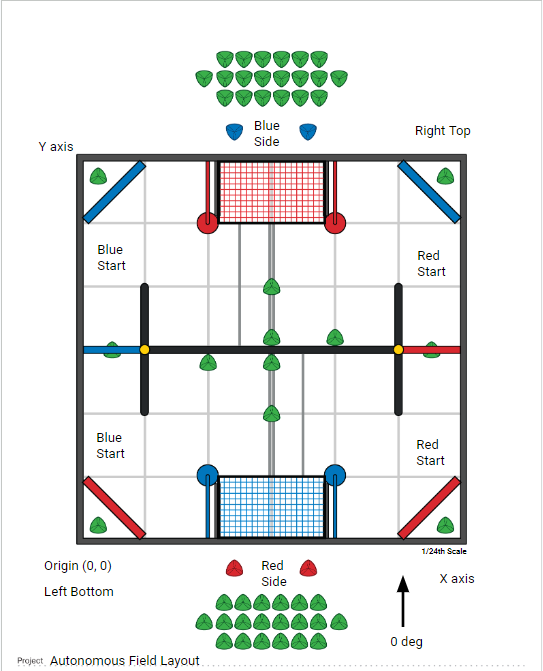
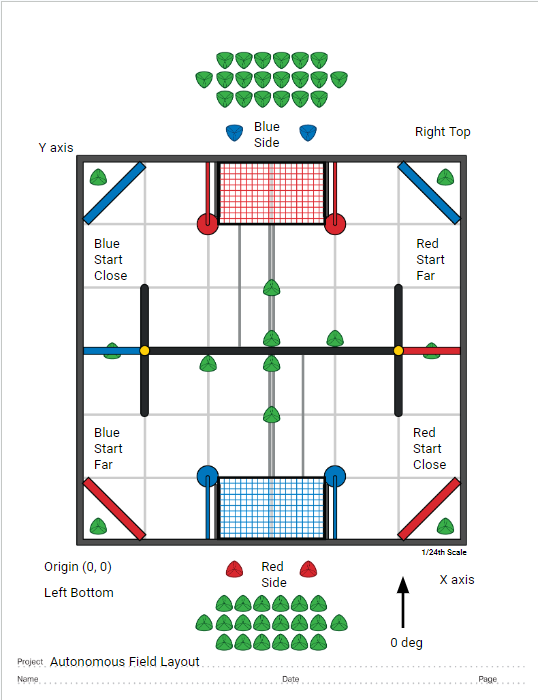
updated field and auto close

Changed region(s): [[0.0297, 0.0596, 0.8922, 1.0], [0.9814, 0.0, 1.0, 0.0298], [0.8922, 0.9538, 0.9219, 0.9836]]

diff --git a/src/main.cpp b/src/main.cpp
@@ -81,29 +81,24 @@ pros::Motor intake(INTAKE_PORT, pros::E_MOTOR_GEARSET_18, false,
                    pros ::E_MOTOR_ENCODER_DEGREES);
 pros::Motor cata(CATA_PORT, pros::E_MOTOR_GEARSET_36, true);
 
-void autoSkillsDriverAKAOppositeOfAutoClose()
+// poses only defined for red side, as blue is the same but flipped!
+
+// starts at opposite of close side facing towards goal, pushes triball into the goal, and sets up for match load
+void autoCloseOpposite()
 {
-  chassis.setPose(driverAutoStart.x, driverAutoStart.y, driverAutoStartHeading);
-  chassis.moveToPose(driverAutoMid.x, driverAutoMid.y, driverAutoMidHeading,
-                     2000, {.minSpeed = 80}, false);
-  // chassis.moveToPose(driverAutoMid2.x, driverAutoMid2.y, driverAutoMid2Heading, 2000, {.forwards = false, .chasePower = 1, .minSpeed = 80}, false);
-  chassis.moveToPose(driverAutoEnd.x, driverAutoEnd.y, driverAutoEndHeading,
-                     2000, {.maxSpeed = 80}, false);
+  chassis.setPose(closeOppStart.x, closeOppStart.y, closeOppStartHeading);
+  chassis.moveToPose(blueGoalLeftSide.x, blueGoalLeftSide.y, 90, 2000, {.minSpeed = 80}, false); // push into the goal
+  chassis.moveToPose(closeOppEnd.x, closeOppEnd.y, closeOppEndHeading, 2000, {.forwards = false, .maxSpeed = 80}, false);
   wings.set_value(HIGH);
 }
 
+// starts at close side facing towards goal, pushes triball into the goal, and sets up for match load
 void autoClose()
 {
-  chassis.setPose(fieldX - driverAutoStart.x, driverAutoStart.y, -driverAutoStartHeading);
+  chassis.setPose(fieldX - closeOppStart.x, closeOppStart.y, -closeOppStartHeading);
   chassis.setPose(blueGoalRightSide.x, blueGoalRightSide.y, -90, 4000);
-  // chassis.moveToPose(fieldX - driverAutoMid.x, driverAutoMid.y, -driverAutoMidHeading,
-  //                    2000, {.minSpeed = 80}, false);
-  // chassis.moveToPose(fieldX - driverAutoMid2.x, driverAutoMid2.y, -driverAutoMid2Heading,
-  //                    2000, {.forwards = false, .chasePower = 1, .minSpeed = 80},
-  //                    false);
-  // chassis.moveToPose(fieldX - driverAutoEnd.x, driverAutoEnd.y, -driverAutoEndHeading,
-  //                    2000, {.maxSpeed = 80}, false);
-  // wings.set_value(HIGH);
+  chassis.moveToPose(fieldX - closeOppEnd.x, closeOppEnd.y, -closeOppEndHeading, 2000, {.forwards = false, .maxSpeed = 80}, false);
+  wings.set_value(HIGH);
 }
 
 // start in farthest full starting tile, facing the center of the field
@@ -132,7 +127,7 @@ void autoFar()
 // start in lower left corner between goal and corner facing the goal
 void autoSkills()
 {
-  autoSkillsDriverAKAOppositeOfAutoClose();
+  autoCloseOpposite();
   // cata = CATAMAXVOLTAGE;
   // pros::delay(25000); // wait 25 sec
   // cata = 0;
@@ -259,7 +254,7 @@ void opcontrol()
   if (ez::as::auton_selector.Autons[ez::as::auton_selector.current_auton_page]
           .Name == autoSkillsAuton.Name)
   {
-    autoSkillsDriverAKAOppositeOfAutoClose();
+    autoCloseOpposite();
     cataHeadStart = 200;
   }
   bool flipDrive = false;

diff --git a/src/field.hpp b/src/field.hpp
@@ -75,14 +75,10 @@ Pose2d redSkillsStart = Pose2d((fieldX - tile), (tile / 2.0));
 float redSkillsStartHeading = -30; // this is a guess
 
 // positions to push triball into the goal
-Pose2d driverAutoStart = Pose2d(tile / 2.0, tile + 5);
-Pose2d driverAutoMid = Pose2d(2 * tile - 4, tile / 2.0 + 2); // left side of the goal
-Pose2d driverAutoMid2 = Pose2d(tile * 1.2, tile / 2.0 + 2);
-Pose2d driverAutoEnd = Pose2d(tile - 5, tile / 2.0 - 7);
-float driverAutoStartHeading = 135;
-float driverAutoMidHeading = 135; // was 90
-float driverAutoMid2Heading = -90;
-float driverAutoEndHeading = 200;
+Pose2d closeOppStart = Pose2d(tile / 2.0, tile + 5);
+Pose2d closeOppEnd = Pose2d(tile - 5, tile / 2.0 - 7);
+float closeOppStartHeading = 135;
+float closeOppEndHeading = -120;
 
 Pose2d blueGoalLeftSide = Pose2d((tile * 2), (tile / 2.0));
 Pose2d blueGoalRightSide = Pose2d((fieldX - tile * 2), (tile / 2.0));
